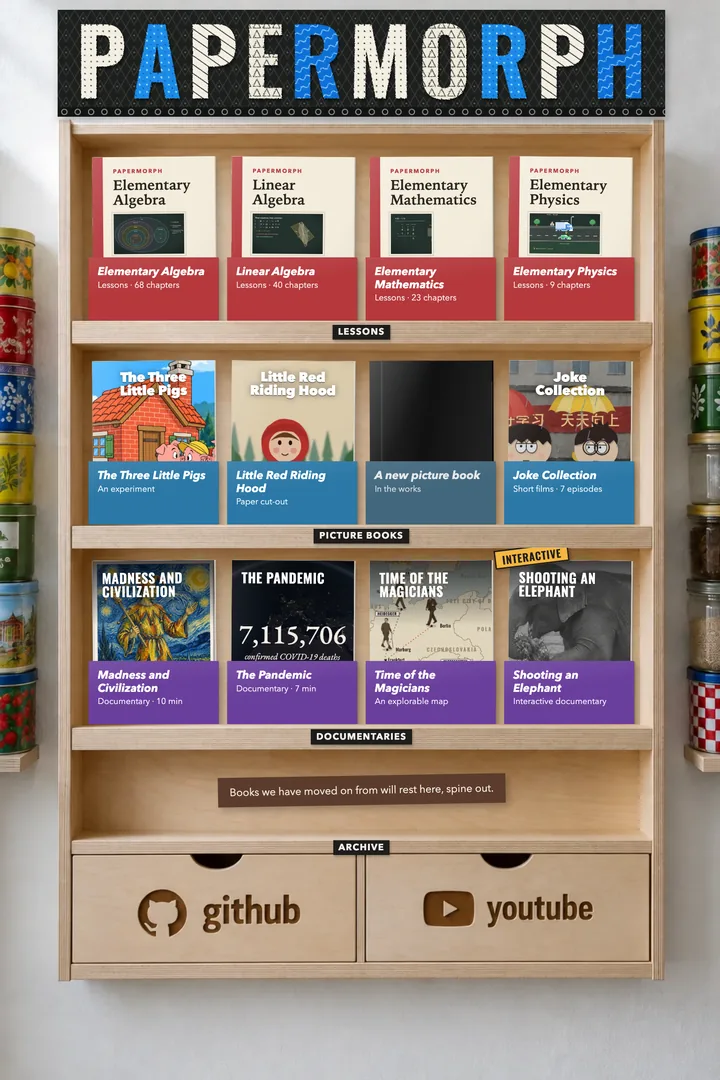
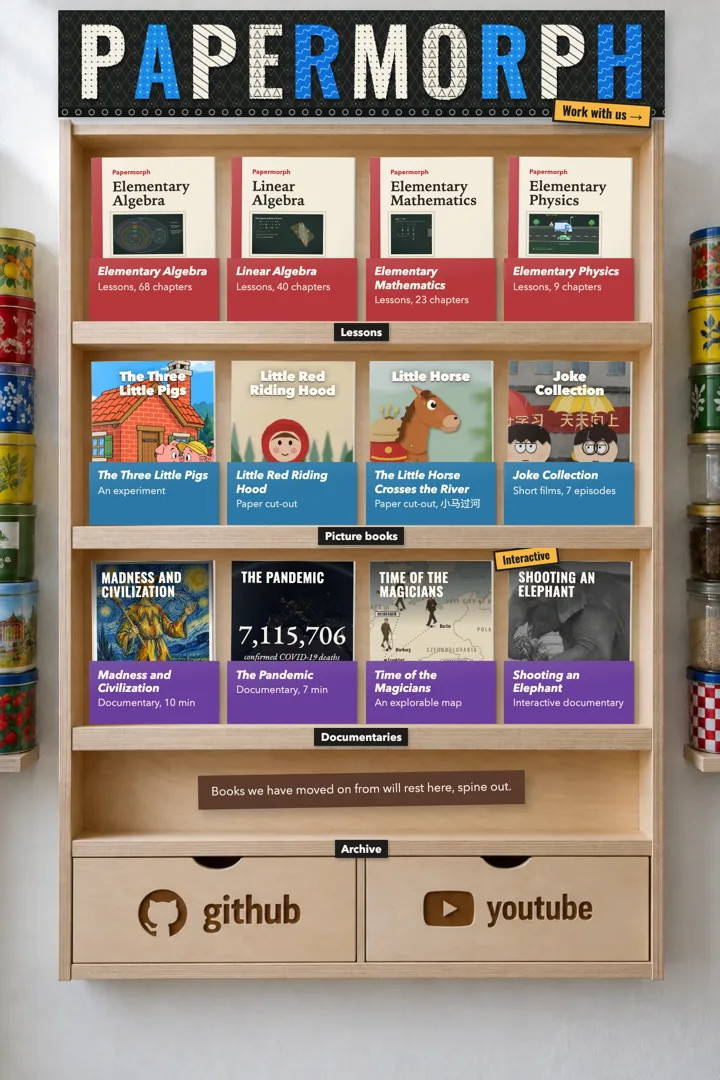
docs(readme): Little Horse on the shelf picture, listen and find, Arabic, roadmap item done
The shelf picture now shows The Little Horse; the picture-book clips are its river
game (a wrong tap says 'ox', the bird is found) and the second Little Red Riding Hood.
Picture books for pre-readers move from the roadmap to done.

diff --git a/README.md b/README.md
@@ -34,12 +34,12 @@ Formulas, diagrams and scenes change step by step as the narration explains, wit
 
 ### Picture books, from a story, a joke or a fairy tale
 
-Paper puppets in front of sets drawn in code or painted by an image model, with voices, subtitles, sound effects, music and camera work. Young readers can tap things in the picture to hear their names.
-[Joke Collection](https://papermorph.diamonddoge.org/joke-collection/) (7 episodes) · [Little Red Riding Hood](https://papermorph.diamonddoge.org/little-red-riding-hood/)
+Paper puppets in front of sets drawn in code or painted by an image model, with acted voices, subtitles, sound effects, music and camera work. For children who can't read yet, the film stops for a game: a character asks for one thing at a time, the child touches it in the picture, and nothing is ever called wrong.
+[The Little Horse Crosses the River](https://papermorph.diamonddoge.org/little-horse/) (小马过河) · [Little Red Riding Hood](https://papermorph.diamonddoge.org/little-red-riding-hood/) · [Joke Collection](https://papermorph.diamonddoge.org/joke-collection/) (7 episodes)
 
 <p align="center">
-  <a href="https://papermorph.diamonddoge.org/joke-collection/ch03/"><img src="img/readme/joke-collection.webp" alt="Joke Collection: paper puppets on a painted farm, cutting between close-ups" width="49%"></a>
-  <a href="https://papermorph.diamonddoge.org/little-red-riding-hood/ch01/"><img src="img/readme/red-riding-hood.webp" alt="Little Red Riding Hood: in the meadow, tapping the sun and a cloud shows and says each word" width="49%"></a>
+  <a href="https://papermorph.diamonddoge.org/little-horse/ch01/"><img src="img/readme/little-horse.webp" alt="The Little Horse Crosses the River: by the river the foal asks for the bird; a tap on the ox says 'ox', a tap on the bird finds it" width="49%"></a>
+  <a href="https://papermorph.diamonddoge.org/little-red-riding-hood/ch01/"><img src="img/readme/red-riding-hood.webp" alt="Little Red Riding Hood: the wolf in Grandma's cap and glasses, closer with every question, then the lunge" width="49%"></a>
 </p>
 
 ### Documentaries and upright shorts, from a book or an idea
@@ -74,21 +74,20 @@ Then type `/papermorph`. It finds the PDF in your project (or asks for your stor
 
 In OpenCode, a clone of this repository already has the command (`.opencode/commands/papermorph.md`) and the Skill; with a global install, copy that file to `~/.config/opencode/commands/`.
 
-You need [uv](https://docs.astral.sh/uv/), ffmpeg, and Playwright's browsers (`uv run --with playwright playwright install chromium firefox`). Narration uses Edge TTS (online) or Kokoro (local), free. A few steps are paid, optional and need an API key: painted sets for picture books (OpenRouter or OpenAI), and ElevenLabs narration and clips made from a still for documentaries ([OpenRouter](https://openrouter.ai/)).
+You need [uv](https://docs.astral.sh/uv/), ffmpeg, and Playwright's browsers (`uv run --with playwright playwright install chromium firefox`). Narration uses Edge TTS (online) or Kokoro (local), free. A few steps are paid, optional and need an API key: acted ElevenLabs voices for picture books and documentaries, clips made from a still ([OpenRouter](https://openrouter.ai/)), and painted sets for picture books (OpenRouter or OpenAI). The two newest picture books cost under $0.35 each in voices.
 
 ## How it works
 
 A book is planned before it is drawn: chapters or scenes, then a script, then a storyboard. The narration is voiced and every word gets a time, and the picture is animated to those times. The model then watches its own output (contact sheets, overlap and blank-frame checks, end-to-end tests, a director's review against approved books) and fixes what it sees. Large chapters are made by a team of subagents, each step on the model you choose ([core/team.md](.claude/skills/papermorph/references/core/team.md)). The books on the shelf were made with Opus 5.5, GPT-6.1-Sol and Sonnet 5.5; an illustrated physics chapter costs about $10–18 of model usage.
 
-Every book plays in the same player: pause anywhere, step back and forth, speed, captions, keyboard shortcuts, and progress saved per book, with the interface in English, Russian, Chinese or Japanese. The player lives in [`engine/`](engine) and every book keeps its own copy, so a book never breaks when the engine changes; `scripts/engine.py site` updates them from the latest release (`--from you/your-fork@main` from your own).
+Every book plays in the same player: pause anywhere, step back and forth, speed, captions, keyboard shortcuts, and progress saved per book, with the interface in English, Russian, Chinese, Japanese or Arabic (right to left). The player lives in [`engine/`](engine) and every book keeps its own copy, so a book never breaks when the engine changes; `scripts/engine.py site` updates them from the latest release (`--from you/your-fork@main` from your own).
 
 Any chapter or episode also renders to a 1080p MP4 with an `.srt`, frame by frame from the lesson clock (`scripts/export.py`), and a book can be packaged for an LMS as SCORM (`scripts/scorm.py`, [courses.md](.claude/skills/papermorph/references/lessons/courses.md)).
 
 ## Roadmap
 
-The first roadmap is done: maths books, science books, picture books, a model of your choice for every step, documentaries, and upright shorts. Point-and-read, a rifle, a map and a scroll story came along the way. Next:
+The first roadmap is done: maths books, science books, picture books, a model of your choice for every step, documentaries, and upright shorts. So are picture books for children who can't read yet: layered paper sets, four-legged puppets and listen-and-find games, in *The Little Horse* and the second *Little Red Riding Hood*. A rifle, a map and a scroll story came along the way. Next:
 
-- **Picture books for children who can't read yet.** New looks besides paper cut-outs, still moved in code, and more ways to play inside the film by voice and touch: find the thing the narrator names, tap to make the story go on, choose by picture.
 - **Picture books from a PDF of pictures.** Bring an illustrated book and make its pages move: tap to hear names over the painting, layers that drift in parallax, characters cut into paper puppets, the printed text read aloud. For your own books or a publisher's; our own examples will use public-domain books or pictures we draw.
 - **Lessons with their own examples.** The textbook sets what is taught, in what order and how hard; the Skill writes new worked examples and exercises, with answers computed in code, so nothing is copied from the book.
 - **One source, every shape.** A single Wikipedia article made into a documentary, shorts, an interactive page and a scroll story, side by side.
